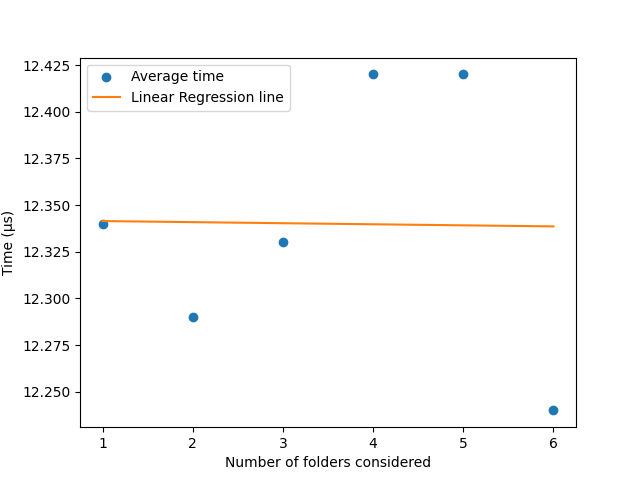
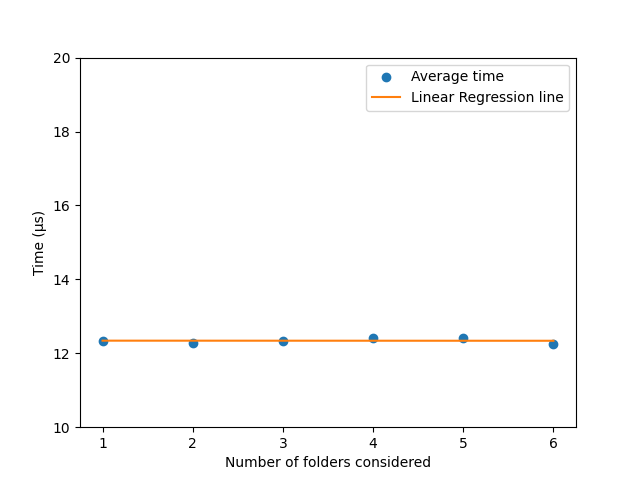
Fix image scale

diff --git a/results/graphs.py b/results/graphs.py
@@ -16,6 +16,7 @@ for x in xs:
 b, a = np.polyfit(xs, means, deg=1)
 
 plt.figure()
+plt.ylim(10, 20)
 plt.scatter(xs, means)
 plt.plot(xs, [a + b * x for x in xs], color='C1')
 plt.xlabel('Number of active permissions')
@@ -42,6 +43,7 @@ for x in xs:
 b, a = np.polyfit(xs, means, deg=1)
 
 plt.figure()
+plt.ylim(10, 20)
 plt.scatter(xs, means)
 plt.plot(xs, [a + b * x for x in xs], color='C1')
 plt.xlabel('Number of folders considered')
